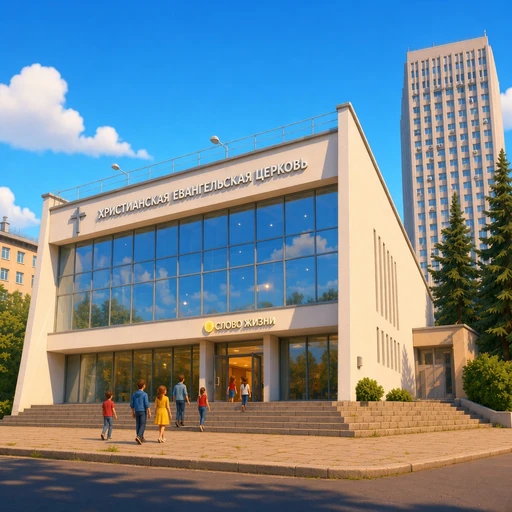
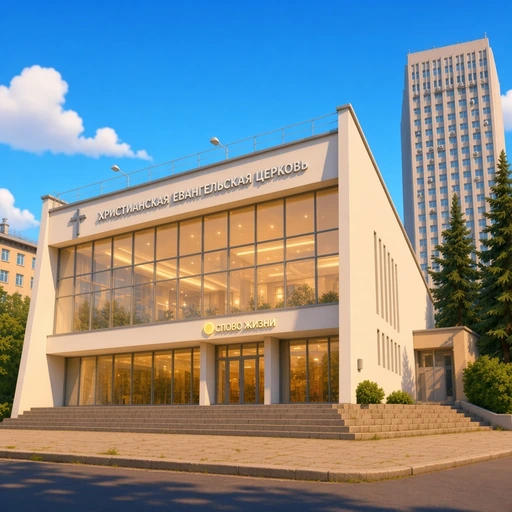
Add church stages 6 through 10.
Update the clicker from v4, including the new stage images and the revised earlier stages.

diff --git a/game.js b/game.js
@@ -47,6 +47,9 @@ const ACH=[
  {id:'st3',n:'Свет в окнах',d:'Дойти до 3-й стадии церкви',f:s=>churchStage(s)>=3},
  {id:'st4',n:'Дом наполняется',d:'Дойти до 4-й стадии церкви',f:s=>churchStage(s)>=4},
  {id:'st5',n:'Храм сияет',d:'Дойти до 5-й стадии церкви',f:s=>churchStage(s)>=5},
+ {id:'st6',n:'Двор полон гостей',d:'Дойти до 6-й стадии церкви',f:s=>churchStage(s)>=6},
+ {id:'st8',n:'Парковка и площадка',d:'Дойти до 8-й стадии церкви',f:s=>churchStage(s)>=8},
+ {id:'st10',n:'Салют над храмом',d:'Дойти до 10-й стадии церкви',f:s=>churchStage(s)>=10},
  {id:'tape',n:'Изолентой можно всё',d:'Купить 10 изолент',f:s=>(s.u.tape||0)>=10},
  {id:'vol10',n:'Команда мечты',d:'10 волонтёров',f:s=>(s.u.vol||0)>=10},
  {id:'youth',n:'Молодёжь горит',d:'Открыть «4.0»',f:s=>(s.u.youth||0)>=1},
@@ -95,7 +98,7 @@ function people(s){
   if(sch&&fam)p=Math.floor(p*(1+fam*sch));
   return p;
 }
-function churchStage(s){const p=people(s);if(p>=500)return 5;if(p>=200)return 4;if(p>=80)return 3;if(p>=20)return 2;return 1}
+function churchStage(s){const p=people(s);if(p>=12000)return 10;if(p>=7000)return 9;if(p>=4000)return 8;if(p>=2000)return 7;if(p>=1000)return 6;if(p>=500)return 5;if(p>=200)return 4;if(p>=80)return 3;if(p>=30)return 2;return 1}
 function isNight(){const h=new Date().getHours();return h>=22||h<6}
 function bBonus(b,lv){
   if(!lv)return '';
@@ -123,7 +126,7 @@ function renderChurch(){
   }
   shownChurch=st;
 }
-[1,2,3,4,5].forEach(n=>{const i=new Image();i.src='img/church'+n+'.webp'});
+for(let n=1;n<=10;n++){const i=new Image();i.src='img/church'+n+'.webp'}
 BLD.forEach(b=>{const i=new Image();i.src='img/b_'+b.id+'.webp'});
 const fmt=n=>{n=Math.floor(n);if(n<1e4)return n.toLocaleString('ru-RU');const z=[[1e12,' трлн'],[1e9,' млрд'],[1e6,' млн'],[1e3,' тыс']];for(const[v,s]of z)if(n>=v)return(n/v).toFixed(n/v<100?1:0).replace('.',',')+s;};
 function toast(t){const e=$('#toast');e.textContent=t;e.classList.add('on');clearTimeout(toast.h);toast.h=setTimeout(()=>e.classList.remove('on'),2600)}

diff --git a/sw.js b/sw.js
@@ -1,4 +1,4 @@
-const C='zavhoz-v3b';const A=['./','index.html','style.css','game.js','manifest.webmanifest',"img/cafe.webp","img/corridor.webp","img/exterior.webp","img/hall.webp","img/hall_empty.webp","img/icon-180.png","img/icon-192.png","img/icon-512.png","img/office.webp","img/panel.webp","img/sunday.webp","img/tap.webp","img/church1.webp","img/church2.webp","img/church3.webp","img/church4.webp","img/church5.webp","img/b_prayer.webp","img/b_youthc.webp","img/b_school.webp","img/b_hall.webp","img/b_conf.webp","img/b_camp.webp"];
+const C='zavhoz-v4';const A=['./','index.html','style.css','game.js','manifest.webmanifest',"img/cafe.webp","img/corridor.webp","img/exterior.webp","img/hall.webp","img/hall_empty.webp","img/icon-180.png","img/icon-192.png","img/icon-512.png","img/office.webp","img/panel.webp","img/sunday.webp","img/tap.webp","img/church1.webp","img/church2.webp","img/church3.webp","img/church4.webp","img/church5.webp","img/church6.webp","img/church7.webp","img/church8.webp","img/church9.webp","img/church10.webp","img/b_prayer.webp","img/b_youthc.webp","img/b_school.webp","img/b_hall.webp","img/b_conf.webp","img/b_camp.webp"];
 self.addEventListener('install',e=>{e.waitUntil(caches.open(C).then(c=>c.addAll(A)).then(()=>self.skipWaiting()))});
 self.addEventListener('activate',e=>{e.waitUntil(caches.keys().then(k=>Promise.all(k.filter(x=>x!==C).map(x=>caches.delete(x)))).then(()=>self.clients.claim()))});
 self.addEventListener('fetch',e=>{if(e.request.method!=='GET')return;e.respondWith(caches.match(e.request).then(r=>r||fetch(e.request).then(n=>{const cp=n.clone();caches.open(C).then(c=>c.put(e.request,cp));return n})))});
